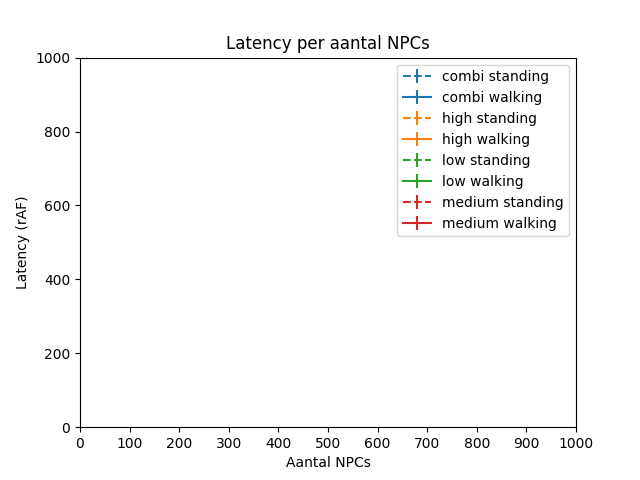
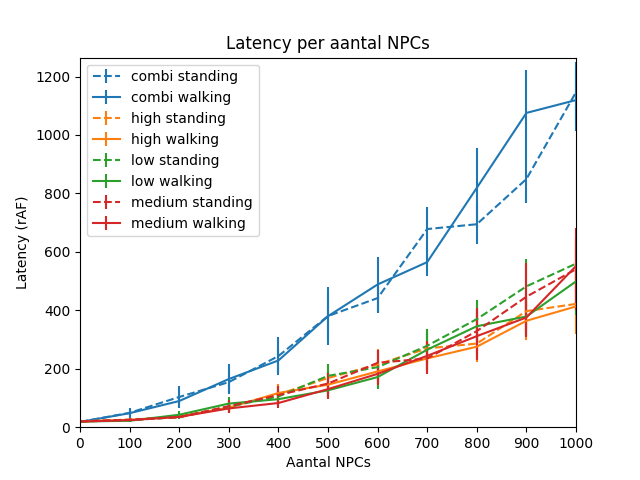
Correct diagram of fps and raf

diff --git a/experiments/diagram.py b/experiments/diagram.py
@@ -122,6 +122,10 @@ def make_diagrams():
 
         data["fps"][(moveable, rendering_algorithm)
                     ][amountNPCs]["avg"].append(np.mean(fps))
+        data["fps"][(moveable, rendering_algorithm)
+                    ][amountNPCs]["std"].append(np.std(fps))
+        data["raf"][(moveable, rendering_algorithm)][amountNPCs]["avg"].append(
+            np.mean(raf))
         data["raf"][(moveable, rendering_algorithm)
                     ][amountNPCs]["std"].append(np.std(raf))
 
@@ -180,15 +184,7 @@ def make_diagrams():
         plt.xticks(np.arange(0, max(x_list) + 1, 100))
 
         plt.xlim(0, max(x_list))
-
-        if diagram == "fps":
-            plt.ylim(0, 60)
-        else:
-            plt.ylim(0, 1000)
-
-        # max_y_value = 60 if diagram == "fps" else max(avg_list) + max(std_list)
-        # print(max(avg_list), max(std_list))
-        # plt.ylim(0, max_y_value)
+        plt.ylim(0, 60 if diagram == "fps" else max_y_value)
 
         if diagram == "fps":
             # Minimal framerate.
